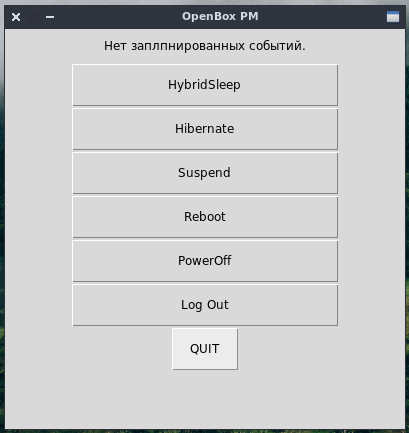
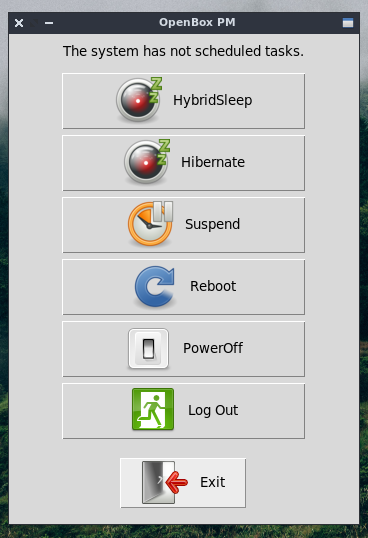
0.2 version of openboxpm

Changed region(s): [[0.0, 0.0, 1.0, 1.0]]

diff --git a/openboxpm.py b/openboxpm.py
@@ -25,8 +25,9 @@
 #     Example: pm_prop = dbus.Interface(pm, dbus_iface_prop)
 #              dobj_prop = pm_prop.Get(dbus_iface, 'ScheduledShutdown')
 #              pd_date = datetime.datetime.fromtimestamp(
-#                  int(dobj_prop[1] / 1000000)).strftime('%Y-%m-%d %H:%M:%S')
-#              sched_sd = str(dobj_prop[0])
+#                  int(dobj_prop[1] / 1000000)
+#              ).strftime('%Y-%m-%d %H:%M:%S')
+#              msg_sched = str(dobj_prop[0])
 ########################################################################################################################
 # Url on to Docs of D-Bus item login1: https://www.freedesktop.org/wiki/Software/systemd/logind/
 ########################################################################################################################
@@ -34,130 +35,153 @@
 
 __author__ = 'esendjer'
 __license__ = 'MIT'
-__version__ = '0.1'
+__version__ = '0.2'
 __email__ = 'esendjer@gmail.com'
 __status__ = 'Development'
 
-
+from typing import Tuple
 import dbus
 import datetime
 import tkinter as tk
 from functools import partial
+import os
 
-dbus_item = 'org.freedesktop.login1'                    # This is D-Bus item name for login1
-dbus_path = '/org/freedesktop/login1'                   # This is D-Bus item path for login1
-dbus_iface = 'org.freedesktop.login1.Manager'           # This is D-Bus item for interface Manager
-dbus_iface_prop = 'org.freedesktop.DBus.Properties'     # This is D-Bus item for get properties
-dbus_ses_path = '/org/freedesktop/login1/session/self'  # This is D-Bus item path for Session
-dbus_ses_item = 'org.freedesktop.login1.Session'        # This is D-Bus item name for Session
 
-sysbus = dbus.SystemBus()                     # Create SystemBus object
-pm = sysbus.get_object(dbus_item, dbus_path)  # Create object for login1
-pm_iface = dbus.Interface(pm, dbus_iface)     # Create interface for login1
+def create_dbus_session() -> Tuple[str, dbus.proxies.Interface, dbus.proxies.Interface, str]:
+    dbus_item = 'org.freedesktop.login1'  # This is D-Bus item name for login1
+    dbus_path = '/org/freedesktop/login1'  # This is D-Bus item path for login1
+    dbus_iface = 'org.freedesktop.login1.Manager'  # This is D-Bus item for interface Manager
+    dbus_iface_prop = 'org.freedesktop.DBus.Properties'  # This is D-Bus item for get properties
+    dbus_ses_path = '/org/freedesktop/login1/session/self'  # This is D-Bus item path for Session
+    dbus_ses_item = 'org.freedesktop.login1.Session'  # This is D-Bus item name for Session
 
-pm_prop = dbus.Interface(pm, dbus_iface_prop)             # Create interface for get properties login1
-try:
-    dobj_prop = pm_prop.Get(dbus_iface, 'ScheduledShutdown')  # Get properties 'ScheduledShutdown' from login1
-except:
-    dobj_prop='-1'
+    sysbus = dbus.SystemBus()  # Create SystemBus object
+    pm = sysbus.get_object(dbus_item, dbus_path)  # Create object for login1
+    pm_iface = dbus.Interface(pm, dbus_iface)  # Create interface for login1
 
-pm_ses = sysbus.get_object(dbus_item, dbus_ses_path)   # Create object for Session
-pm_ses_iface = dbus.Interface(pm_ses, dbus_ses_item)   # Create interface for Session
-pm_ses_prop = dbus.Interface(pm_ses, dbus_iface_prop)  # Create interface for get properties Session
+    pm_prop = dbus.Interface(pm, dbus_iface_prop)  # Create interface for get properties login1
+    try:
+        dobj_prop = pm_prop.Get(dbus_iface, 'ScheduledShutdown')  # Get properties 'ScheduledShutdown' from login1
+    except:  # any exceptions
+        dobj_prop = '-1'
 
-id_seesion = pm_ses_prop.Get(dbus_ses_item, 'Id')[0]
+    pm_ses = sysbus.get_object(dbus_item, dbus_ses_path)  # Create object for Session
+    pm_ses_iface = dbus.Interface(pm_ses, dbus_ses_item)  # Create interface for Session
+    pm_ses_prop = dbus.Interface(pm_ses, dbus_iface_prop)  # Create interface for get properties Session
 
-if str(dobj_prop[0]) == '':
-    sched_sd = 'Нет заплпнированных событий.'
-elif dobj_prop == '-1':
-    sched_sd = 'Данные о запланированных\nсобытиях не получены.'
-else:
-    pd_date = datetime.datetime.fromtimestamp(int(dobj_prop[1]/1000000)).strftime('%Y-%m-%d %H:%M:%S')
-    sched_sd = 'Заплпнирован {}, на {}.'.format(str(dobj_prop[0]), pd_date)
+    id_seesion = pm_ses_prop.Get(dbus_ses_item, 'Id')[0]
+
+    if str(dobj_prop[0]) == '':
+        msg_sched = 'The system has not scheduled tasks.'
+    elif dobj_prop == '-1':
+        msg_sched = 'The data of scheduled\ntasks was not got.'
+    else:
+        pd_date = datetime.datetime.fromtimestamp(int(dobj_prop[1] / 1000000)).strftime('%Y-%m-%d %H:%M:%S')
+        msg_sched = 'The task {}, was scheduled on {}.'.format(str(dobj_prop[0]), pd_date)
+    return id_seesion, pm_ses_iface, pm_iface, msg_sched
 
 
 def get_state(oper_name):
-    if oper_name == 'PowerOff':
-        return 'disabled' if str(pm_iface.CanPowerOff()) != 'yes' else 'normal'
-    elif oper_name == 'Reboot':
-        return 'disabled' if str(pm_iface.CanReboot()) != 'yes' else 'normal'
-    elif oper_name == 'Suspend':
-        return 'disabled' if str(pm_iface.CanSuspend()) != 'yes' else 'normal'
-    elif oper_name == 'Hibernate':
-        return 'disabled' if str(pm_iface.CanHibernate()) != 'yes' else 'normal'
-    elif oper_name == 'HybridSleep':
-        return 'disabled' if str(pm_iface.CanHybridSleep()) != 'yes' else 'normal'
-    else:
-        return 'disabled'
+    state = {
+        'Reboot': 'disabled' if str(pm_iface.CanReboot()) != 'yes' else 'normal',
+        'Suspend': 'disabled' if str(pm_iface.CanSuspend()) != 'yes' else 'normal',
+        'Hibernate': 'disabled' if str(pm_iface.CanHibernate()) != 'yes' else 'normal',
+        'HybridSleep': 'disabled' if str(pm_iface.CanHybridSleep()) != 'yes' else 'normal',
+        'PowerOff': 'disabled' if str(pm_iface.CanPowerOff()) != 'yes' else 'normal',
+        'Log Out': 'normal'
+    }
+    return state.get(oper_name) or 'disabled'
 
 
-def cmd(name: object, act: str):
-    if act == 'Off':
-        pm_iface.PowerOff(True)
-    elif act == 'Reb':
-        pm_iface.Reboot(True)
-    elif act == 'Sus':
-        pm_iface.Suspend(True)
-    elif act == 'Hid':
-        pm_iface.Hibernate(True)
-    elif act == 'Hsl':
-        pm_iface.HybridSleep(True)
-    elif act == 'Out':
-        # pm_ses_iface.Terminate()                  # And it version is working
-        pm_iface.TerminateSession(str(id_seesion))  # And it version is working
-    else:
-        print('Wath?')
-    name.destroy()
+def cmd(pm_iface: dbus.proxies.Interface, tk_obj: object, act: str, id_seesion: str) -> None:
+    if act == 'Log Out':
+        # pm_ses_iface.Terminate()             # And this version works
+        pm_iface.TerminateSession(id_seesion)  # This version works
+    pm_actions = {
+        'Reboot': pm_iface.Reboot,
+        'Suspend': pm_iface.Suspend,
+        'Hibernate': pm_iface.Hibernate,
+        'HybridSleep': pm_iface.HybridSleep,
+        'PowerOff': pm_iface.PowerOff,
+    }
+    pm_actions.get(act)(True)
+    tk_obj.destroy()
 
 
-def main():
-    wh = 400
+def create_window(id_seesion: str,
+                  # pm_ses_iface:dbus.proxies.Interface,
+                  pm_iface: dbus.proxies.Interface,
+                  msg_sched: str,
+                  img_path: str) -> None:
+    wh = 350  # The height of window
+
+    # The list of actions
+    list_actions = [
+        'Log Out',
+        'PowerOff',
+        'Reboot',
+        'Suspend',
+        'Hibernate',
+        'HybridSleep'
+    ]
+    dit_images = dict()
 
     tk_root = tk.Tk()
     tk_root.title('OpenBox PM')
 
+    # images of actions
+    icn_quit = tk.PhotoImage(file='{}/icon/application-exit.png'.format(img_path))
+    dit_images.update({'Log Out': tk.PhotoImage(file='{}/icon/system-log-out.png'.format(img_path))})
+    dit_images.update({'Reboot': tk.PhotoImage(file='{}/icon/gnome-session-reboot.png'.format(img_path))})
+    dit_images.update({'Suspend': tk.PhotoImage(file='{}/icon/gnome-session-suspend.png'.format(img_path))})
+    dit_images.update({'Hibernate': tk.PhotoImage(file='{}/icon/gnome-session-hibernate.png'.format(img_path))})
+    dit_images.update({'HybridSleep': tk.PhotoImage(file='{}/icon/gnome-session-hibernate.png'.format(img_path))})
+    dit_images.update({'PowerOff': tk.PhotoImage(file='{}/icon/system-shutdown.png'.format(img_path))})
+
     tk_root.attributes('-zoomed', True)  # Maximizing the window for detecting resolution of currently active monitor
-    tk_root.update_idletasks()           # Updating parameters
+    tk_root.update_idletasks()  # Updating parameters
 
-    ws = (tk_root.winfo_width() // 2) - 200 + tk_root.winfo_rootx()   # Calculating position the window along the X axis
-    hs = (tk_root.winfo_height() // 2) - 200 + tk_root.winfo_rooty()  # Calculating position the window along the Y axis
+    ws = (tk_root.winfo_width() // 2) - 200 + tk_root.winfo_rootx()  # Calculating position the window along the X axis
+    hs = (tk_root.winfo_height() // 2) - 245 + tk_root.winfo_rooty()  # Calculating position the window along the Y axis
 
-    tk_root.geometry('{}x{}+{}+{}'.format(wh, wh, ws, hs))  # Applying new geometry foe the window
-    tk_root.attributes('-zoomed', False)                    # Restoring size the window with new geometry
-    tk_root.resizable(width=False, height=False)            # Disabling changes size of the window
-    tk_root.update_idletasks()                              # Updating parameters
+    tk_root.geometry('{}x490+{}+{}'.format(wh, ws, hs))  # Applying new geometry foe the window
+    tk_root.attributes('-zoomed', False)  # Restoring size the window with new geometry
+    tk_root.resizable(width=False, height=False)  # Disabling changes size of the window
+    tk_root.update_idletasks()  # Updating parameters
 
     tk_window = tk.Frame(tk_root)
     tk_window.pack()
 
-    nbtn = partial(tk.Button, tk_window,  height='2', width='30')
-
+    # button to exit
     btn_quit = tk.Button(
-        tk_window, height='2', width='5', text="QUIT", fg="red", command=tk_root.destroy, state='active'
+        tk_window,
+        height='38',
+        width='100',
+        image=icn_quit,
+        text='Exit',
+        command=tk_root.destroy,
+        state='active',
+        compound='left'
     )
     btn_quit.focus_set()
-    btn_quit.pack(side=tk.BOTTOM)
+    btn_quit.pack(side=tk.BOTTOM, padx=10, pady=15)
 
-    btn_ses = nbtn(text='Log Out', command=lambda: cmd(tk_root, 'Out'))
-    btn_ses.pack(side=tk.BOTTOM)
+    # template for actionable button
+    nbtn = partial(tk.Button, tk_window, height='44', width='50', compound='left')
 
-    btn_off = nbtn(text='PowerOff', command=lambda: cmd(tk_root, 'Off'), state=get_state('PowerOff'))
-    btn_off.pack(side=tk.BOTTOM)
+    # create actionable buttons
+    for action in list_actions:
+        btn = nbtn(
+            image=dit_images[action],
+            text=action,
+            command=lambda x=action: cmd(pm_iface, tk_root, x, id_seesion),
+            state=get_state(action)
+        )
+        btn.pack(side=tk.BOTTOM, padx=5, pady=2, fill='both')
 
-    btn_reb = nbtn(text='Reboot', command=lambda: cmd(tk_root, 'Reb'), state=get_state('Reboot'))
-    btn_reb.pack(side=tk.BOTTOM)
-
-    btn_sus = nbtn(text='Suspend', command=lambda: cmd(tk_root, 'Sus'), state=get_state('Suspend'))
-    btn_sus.pack(side=tk.BOTTOM)
-
-    btn_hib = nbtn(text='Hibernate', command=lambda: cmd(tk_root, 'Hib'), state=get_state('Hibernate'))
-    btn_hib.pack(side=tk.BOTTOM)
-
-    btn_hsl =  nbtn(text='HybridSleep', command=lambda: cmd(tk_root, 'Hsl'),state=get_state('HybridSleep'))
-    btn_hsl.pack(side=tk.BOTTOM)
-
-    label = tk.Label(tk_window, height='2', text=sched_sd)
-    label.pack(side=tk.BOTTOM)
+    # create label with info about scheduled tasks
+    label = tk.Label(tk_window, height='2', text=msg_sched)
+    label.pack(side=tk.BOTTOM, padx=5, pady=2, fill='both')
 
     tk_root.mainloop()
 
@@ -168,4 +192,6 @@ def get_doc():
 
 
 if __name__ == '__main__':
-    main()
+    dir_of_scrip = os.path.dirname(os.path.realpath(__file__))
+    id_seesion, _, pm_iface, msg_sched = create_dbus_session()
+    create_window(id_seesion, pm_iface, msg_sched, dir_of_scrip)
